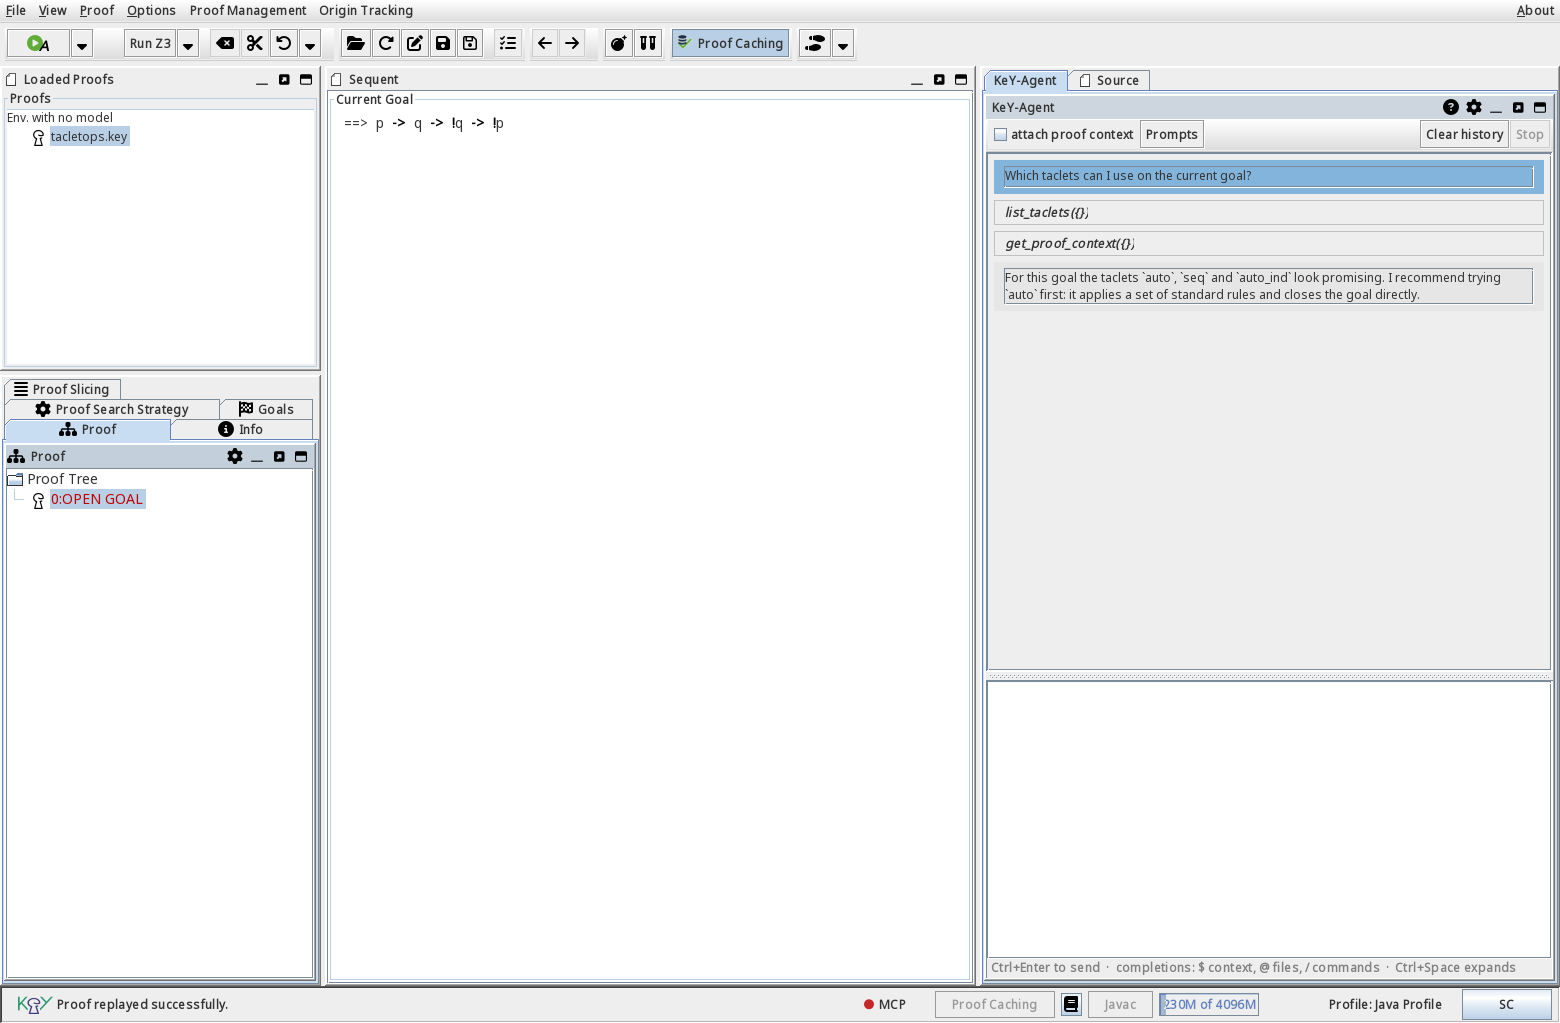
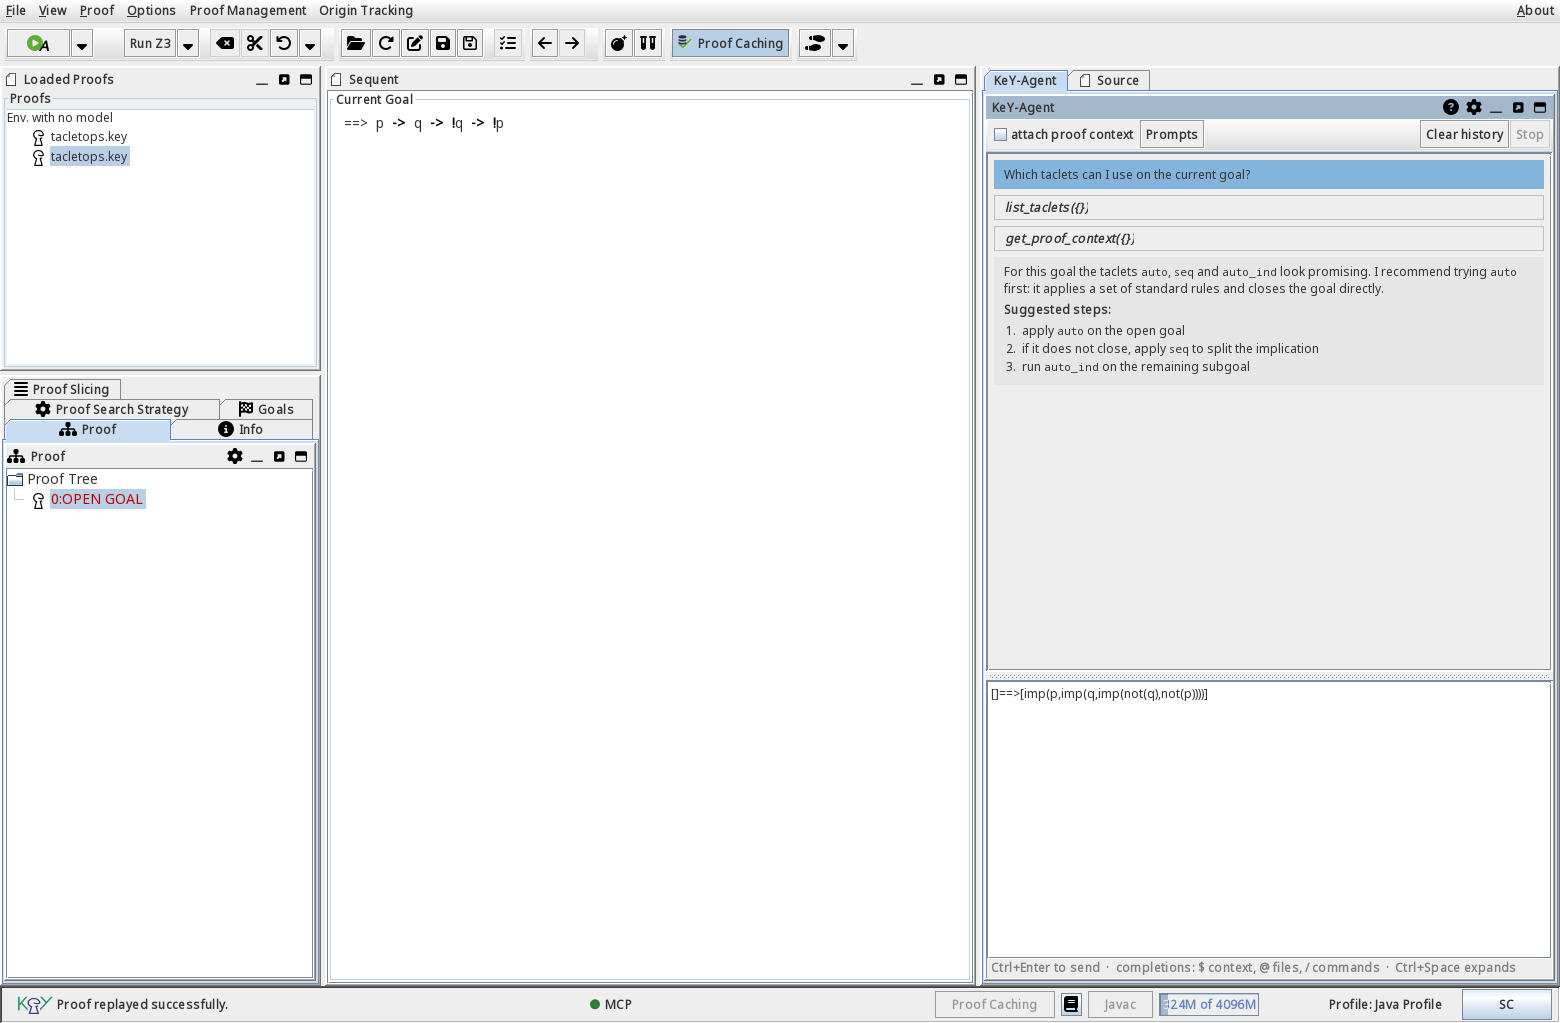
LLM user guide: Markdown answers and updated screenshots
The agent's answers are rendered as Markdown (offline rendering, links
in the system browser); llm-panel.png now shows a formatted answer and
llm-settings-tools.png the aligned tool permission controls.

diff --git a/docs/user/LLM/index.md b/docs/user/LLM/index.md
@@ -28,6 +28,10 @@ uses the LLM service operated by KIT (`https://ki-toolbox.scc.kit.edu`).
 
 - **Chat about the current proof** — the agent sees the proof name, status, the current
   sequent and the open goals, and keeps a separate conversation for every proof.
+- **Markdown answers** — the agent's answers are rendered as Markdown: headings, lists, code
+  blocks and tables are formatted, and links open in the system browser. Rendering is strictly
+  offline: external images or stylesheets are never fetched, and raw HTML in an answer is shown
+  as plain text rather than interpreted.
 - **Tool calls with approval** — the agent can execute proof tools; every sensitive action
   asks for your permission first, and you can disable tools entirely.
 - **Proof automation** — `tryclose` attempts to close the current goal or branch
